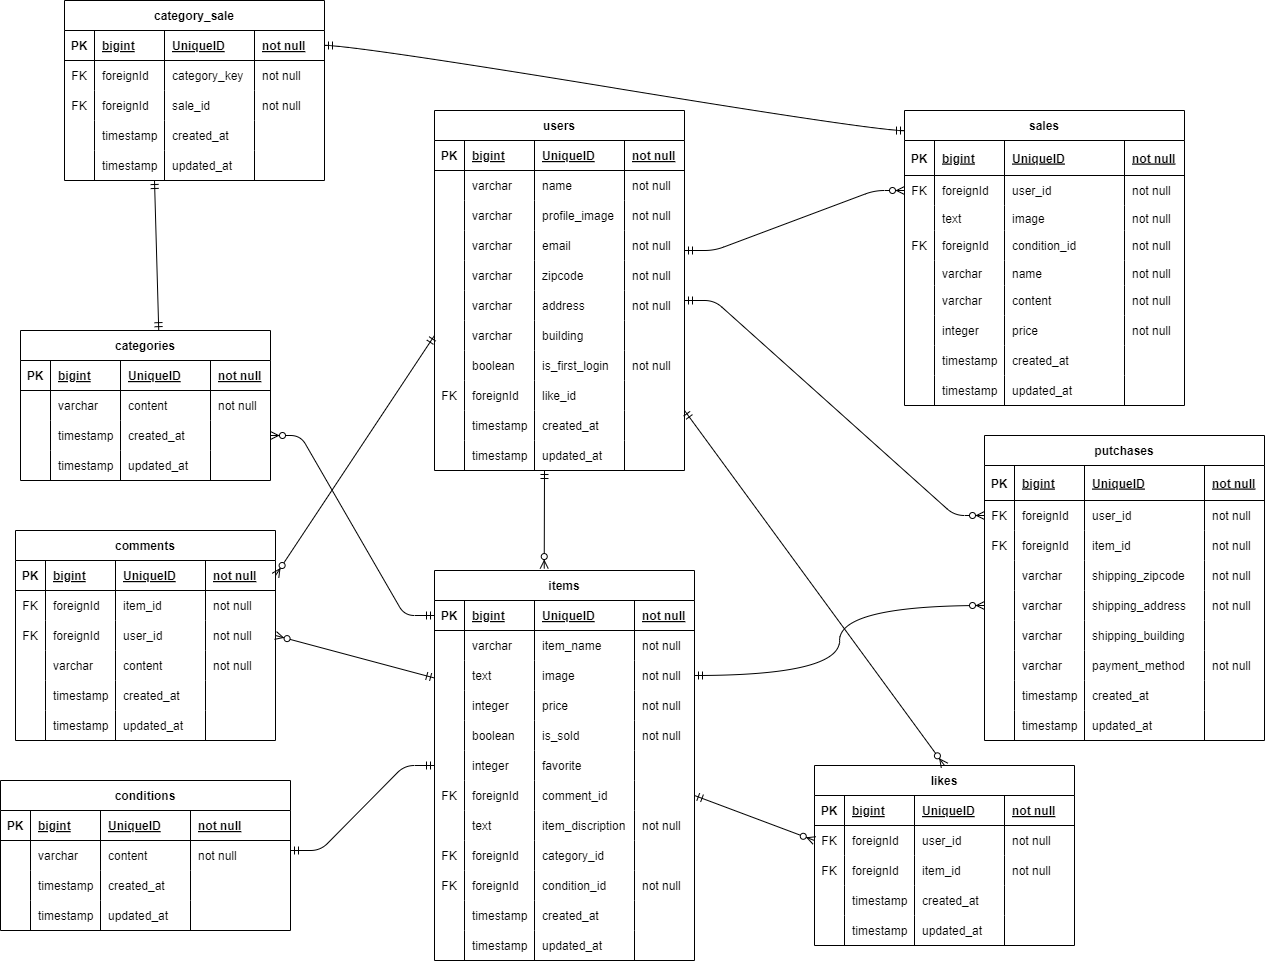
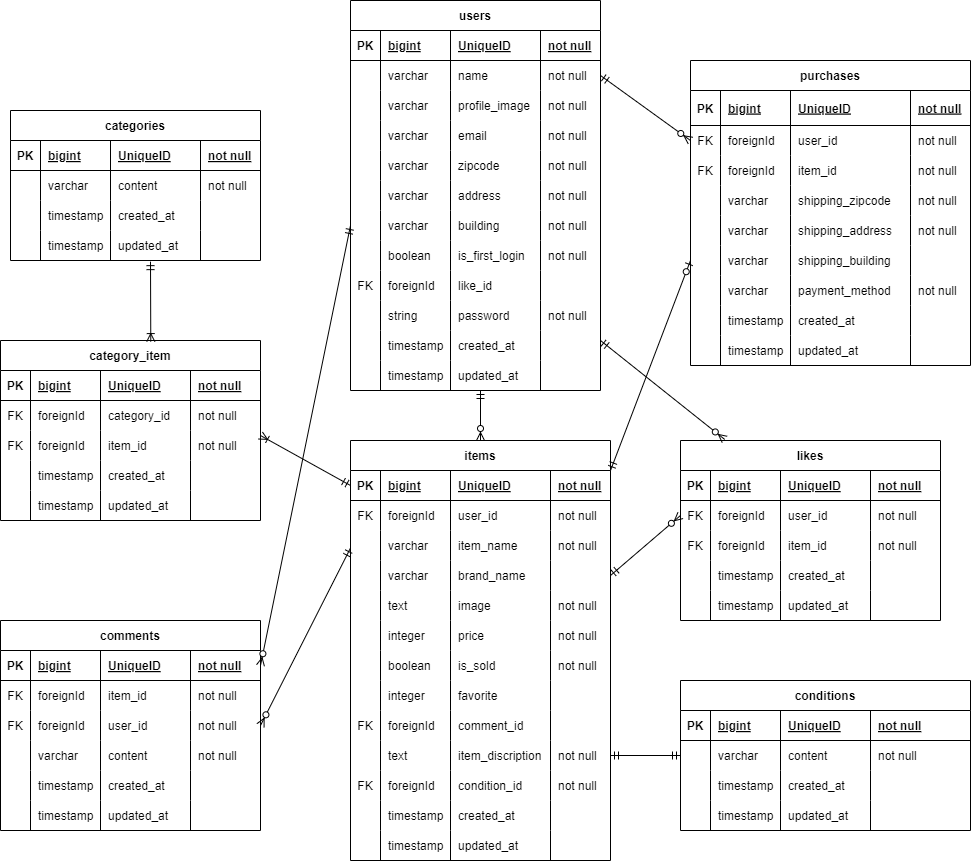
Add README

diff --git a/src/database/migrations/2025_01_18_002352_create_category_item_table.php b/src/database/migrations/2025_01_18_002352_create_category_item_table.php
@@ -15,8 +15,8 @@ class CreateCategoryItemTable extends Migration
     {
         Schema::create('category_item', function (Blueprint $table) {
             $table->id();
-            $table->unsignedBigInteger('item_id');
-            $table->unsignedBigInteger('category_id');
+            $table->foreignId('category_id')->constrained()->cascadeOnDelete();
+            $table->foreignId('item_id')->constrained()->cascadeOnDelete();
             $table->timestamps();
         });
     }

diff --git a/src/tests/Feature/ListingTest.php b/src/tests/Feature/ListingTest.php
@@ -63,7 +63,7 @@ class ListingTest extends TestCase
 
         $itemId = DB::table('items')->latest('id')->first()->id; // 最新の item_id を取得
         foreach ($categories as $category) {
-            $this->assertDatabaseHas('category_sale', [
+            $this->assertDatabaseHas('category_item', [
                 'item_id' => $itemId,
                 'category_id' => $category->id
             ]);

diff --git a/src/database/migrations/2025_01_14_215406_create_items_table.php b/src/database/migrations/2025_01_14_215406_create_items_table.php
@@ -24,7 +24,6 @@ class CreateItemsTable extends Migration
             $table->integer('favorite')->nullable();
             $table->text('comment_id')->nullable();
             $table->text('item_description');
-            $table->json('category_ids')->nullable();
             $table->foreignId('condition_id')->constrained()->cascadeOnDelete();
             $table->timestamps();
         });

diff --git a/src/app/Http/Controllers/ItemController.php b/src/app/Http/Controllers/ItemController.php
@@ -9,7 +9,6 @@ use App\Models\Item;
 use App\Models\User;
 use App\Models\Category;
 use App\Models\Condition;
-use App\Models\Sale;
 use App\Models\Like;
 use Illuminate\Support\Facades\Session;
 

diff --git a/README.md b/README.md
@@ -15,9 +15,18 @@
 - php artisan db:seed  
 
 ## 使用技術
-- PHP7.4.9
 - Laravel8.83.8
+- nginx1.21.1
+- PHP7.4.9
 - MySQL8.0.26
+- phpmyadmin
+- mailhog
+- selenium
+- Docker
+- Dockerネットワーク
+- HTML5
+- CSS3
+- JavaScript
 
 ## 開発環境
 - トップ画面：http://localhost/
